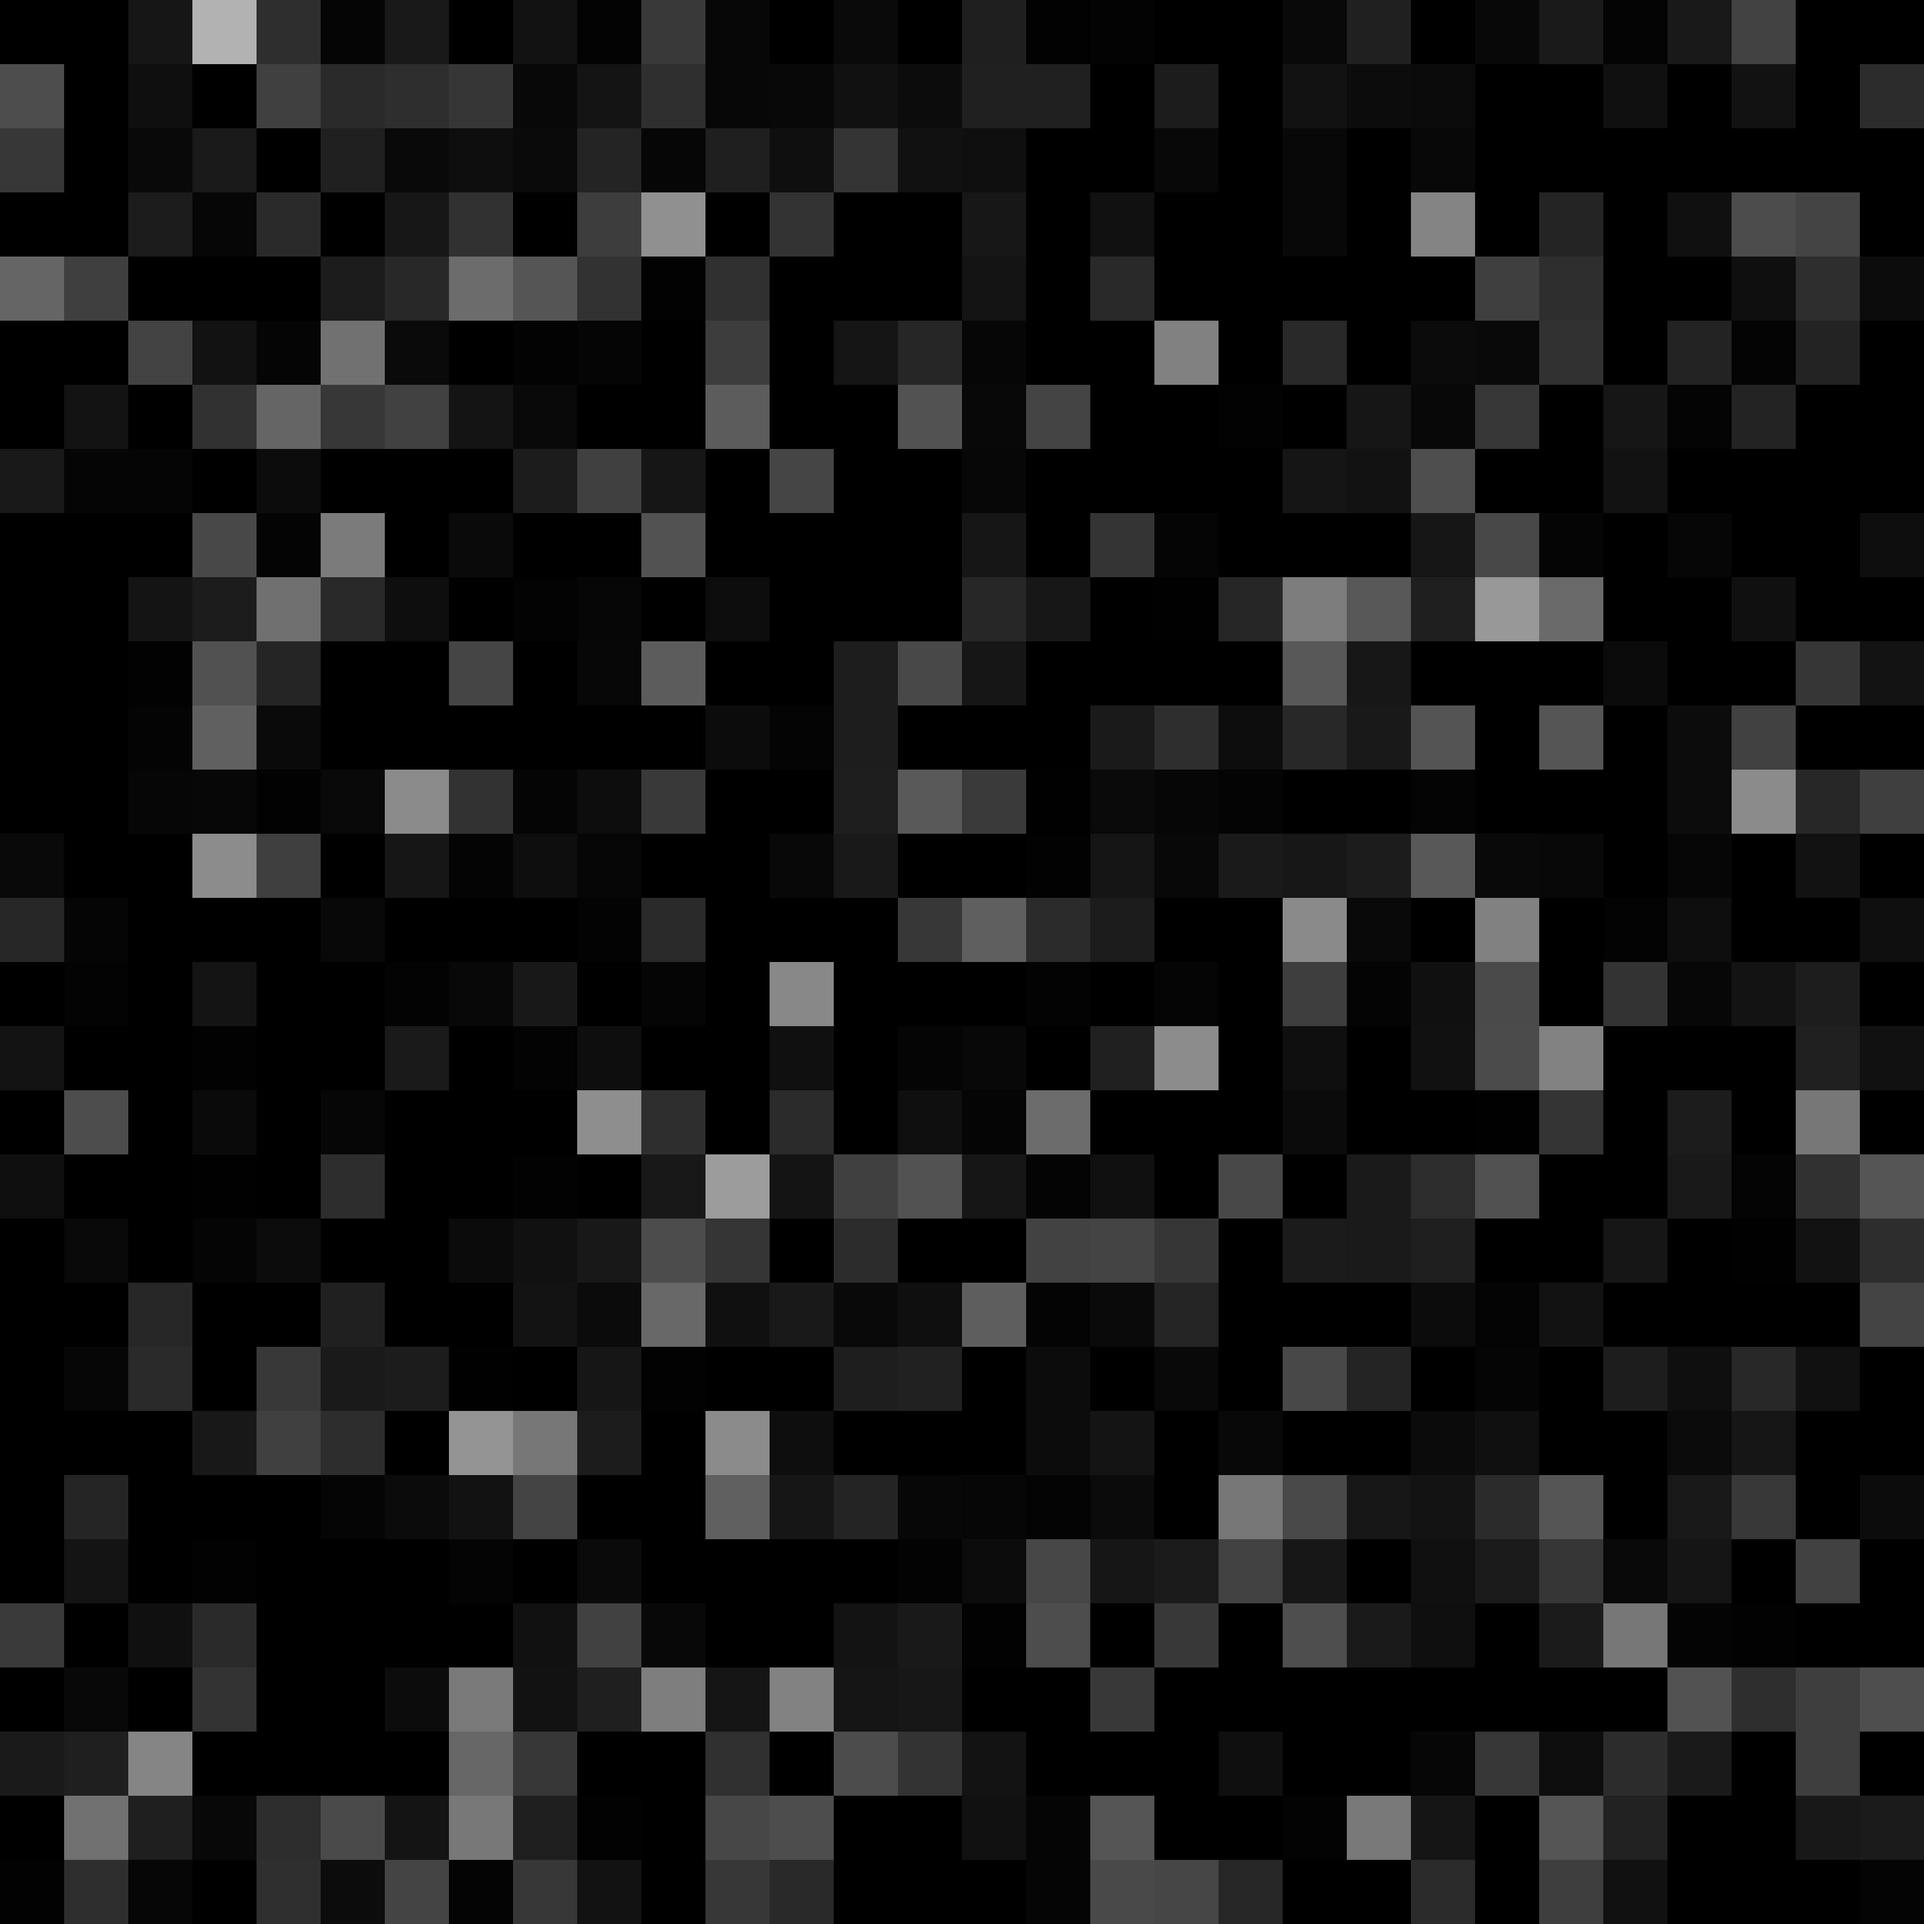
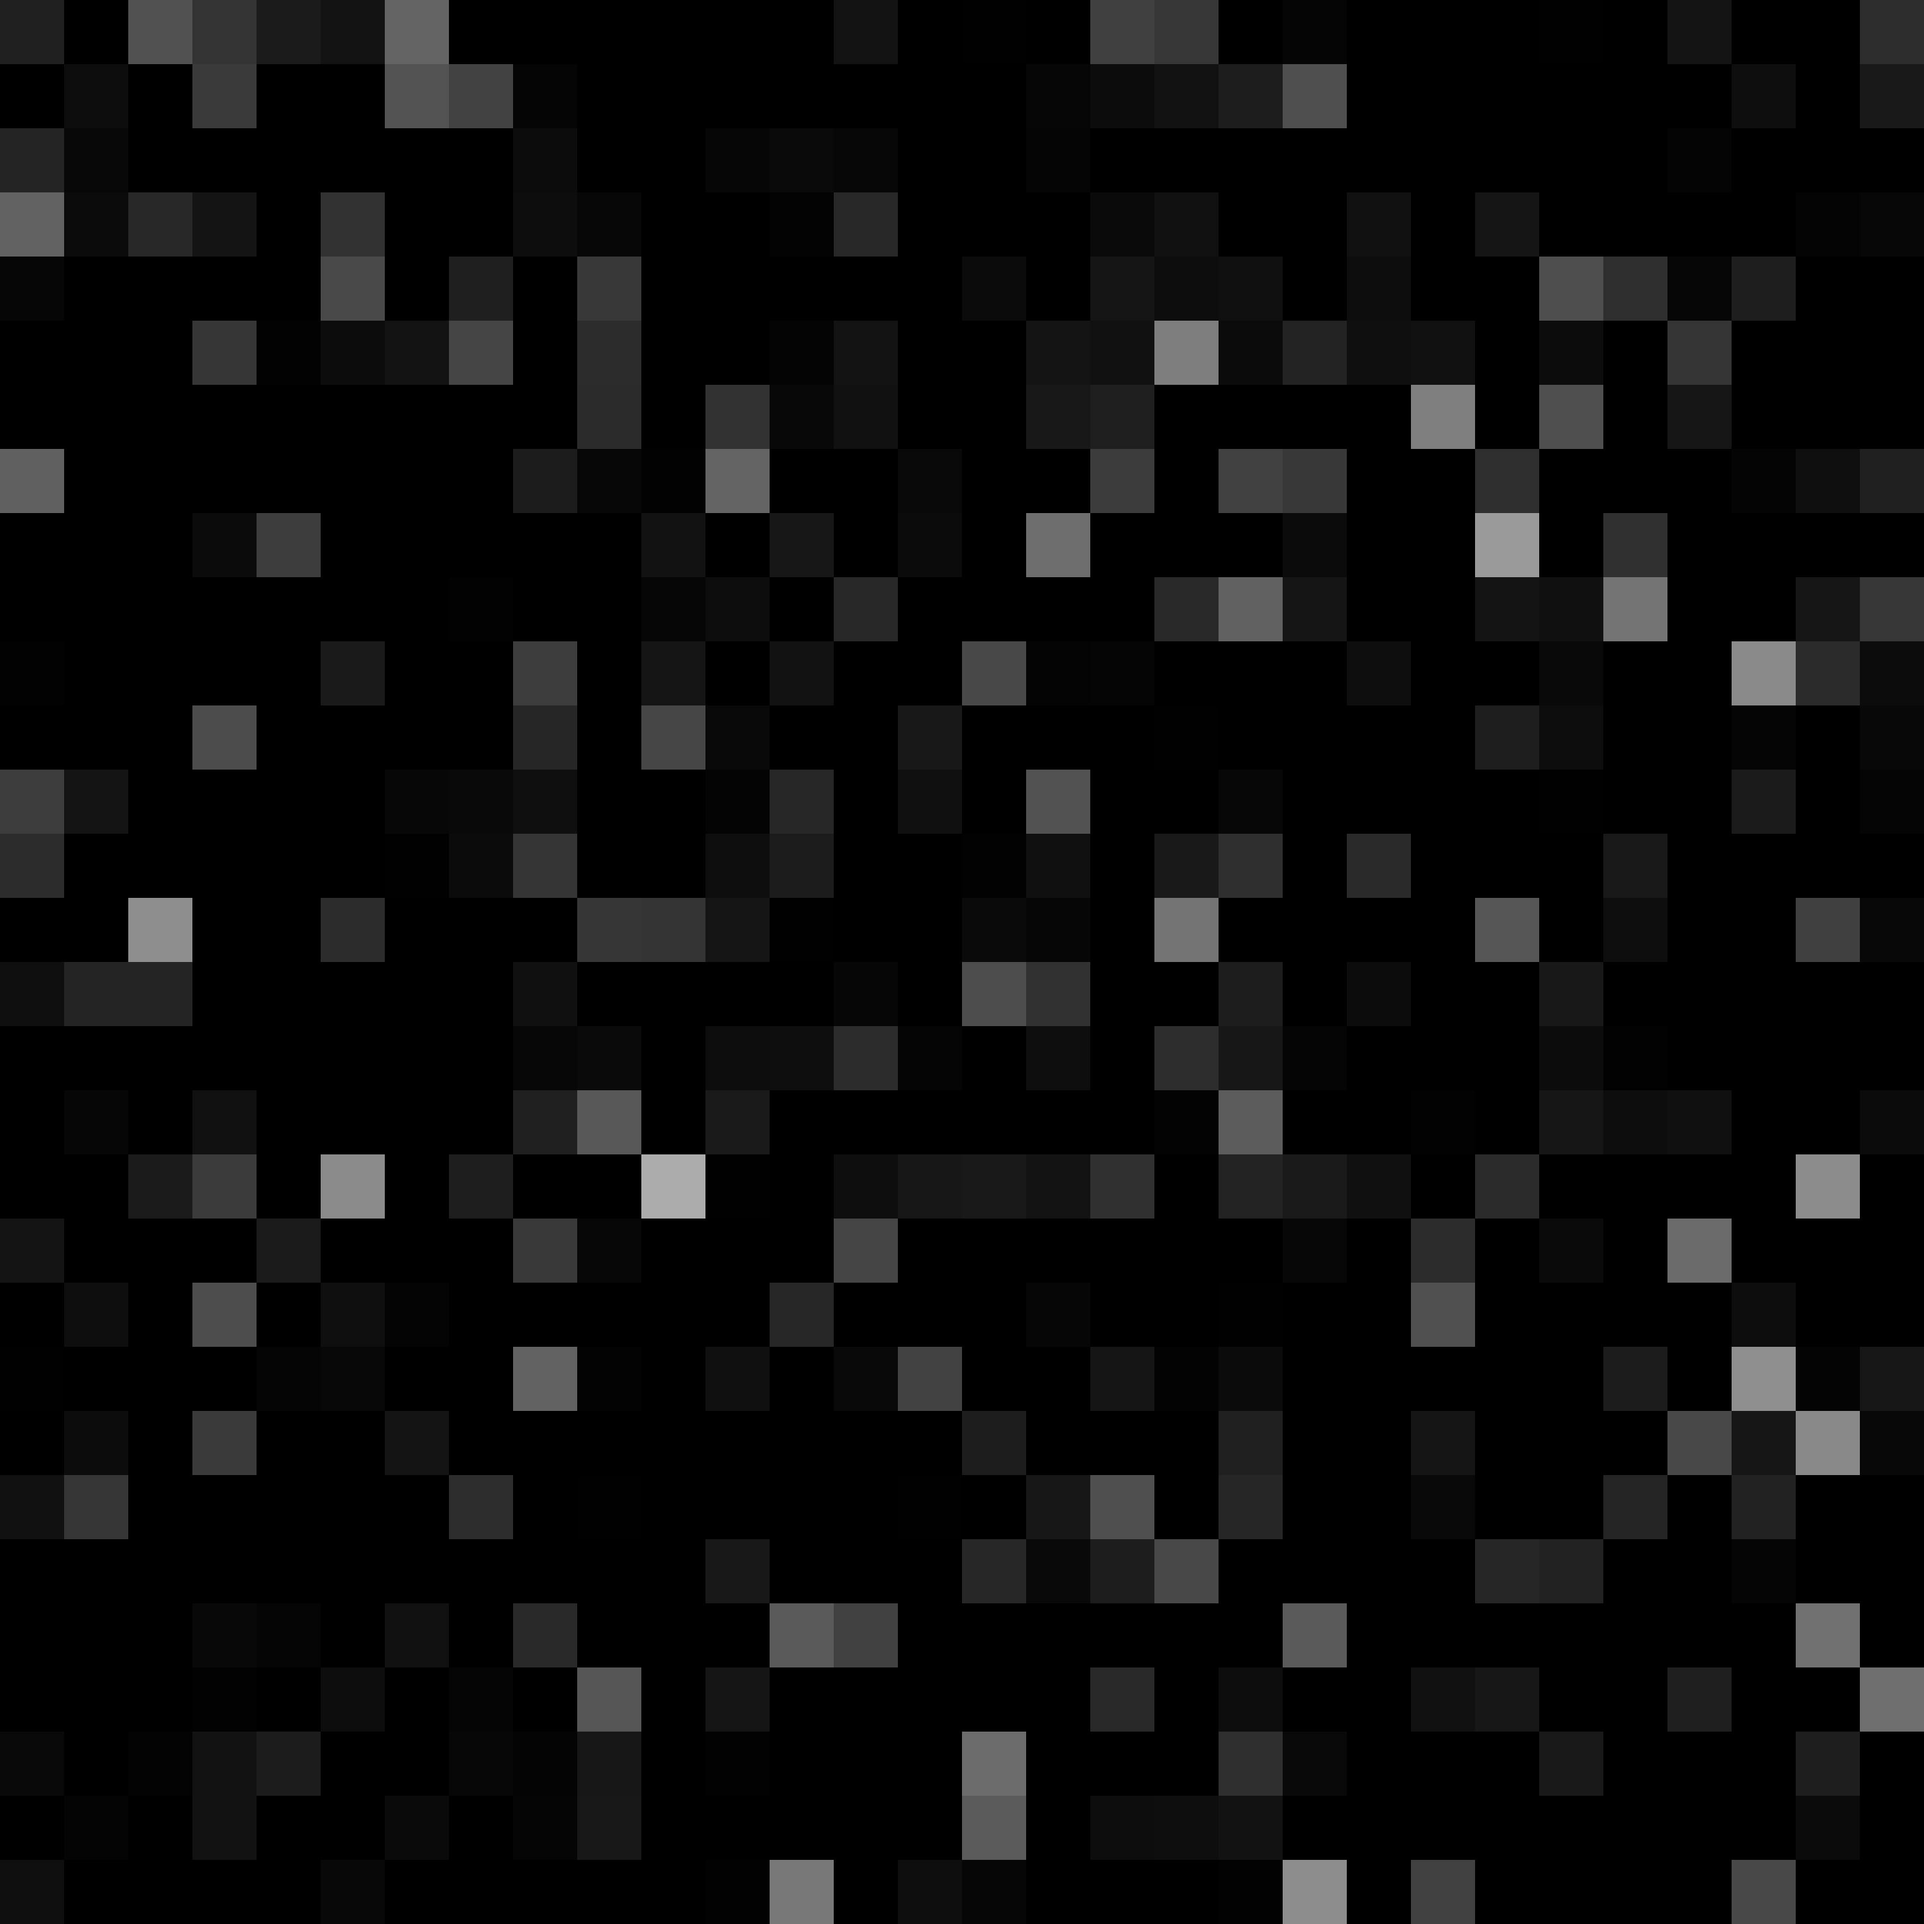
Cleaned up Organoid.py, added functions

diff --git a/src/organoid/organoid.py b/src/organoid/organoid.py
@@ -7,37 +7,45 @@ from PIL import Image
 #-----------------------------------------------
 import socket
 
-print 'Arg1:', sys.argv[1], '  Arg2:', sys.argv[2]
-s = socket.socket() #create socket
-port = int(sys.argv[2]) #bind to port
 
-# connect to server
-host_ip = socket.gethostbyname(str(sys.argv[1]))
-s.connect((host_ip, port))
+def main():
 
-while True:
-	# receive data from server
-	input = s.recv(1024)
-	print 'Master sent', input, int(input)
-	#-----------------------------------------------
-	s.send(input)
-	#Organoid Simulation
+		print 'Arg1:', sys.argv[1], '  Arg2:', sys.argv[2]
+		s = socket.socket() #create socket
+		port = int(sys.argv[2]) #bind to port
 
+		# connect to server
+		host_ip = socket.gethostbyname(str(sys.argv[1]))
+		s.connect((host_ip, port))
 
-	#for n in xrange(10):
-	#    a = numpy.random.rand(30,30,3) * 255
-	#    b = numpy.random.rand(30,30,3) * 255
-	#    a = a - 2*b
-	#    im_out = Image.fromarray(a.astype('uint8')).convert('L')
-	#    im_out = im_out.resize([3000,3000])
-	#    im_out.save('out%000d.jpg' % n)
+		seq_num = 0 #feedback loop sequence number
 
+		while True:
+			# receive data from server
+			input = s.recv(1024)
+			print 'Master sent', input, int(input)
+			#-----------------------------------------------
+			s.send(input)
 
+			#Organoid Simulation
+			organoid(seq_num, int(input))
 
+			seq_num+=1 #increment sequence number
 
-
-#-----------------------------------------------
-s.close() #close socket
-#-----------------------------------------------
+		#-----------------------------------------------
+		s.close() #close socket
+		#-----------------------------------------------
 
 
+def organoid(seq_num, input_pattern):
+        a = numpy.random.rand(30,30,3) * 255
+        b = numpy.random.rand(30,30,3) * 255
+        a = a - 3*b
+        im_out = Image.fromarray(a.astype('uint8')).convert('L')
+        im_out = im_out.resize([3000,3000])
+        im_out.save('out%000d.jpg' % seq_num)
+	return;
+
+
+if __name__=="__main__":
+   main()
